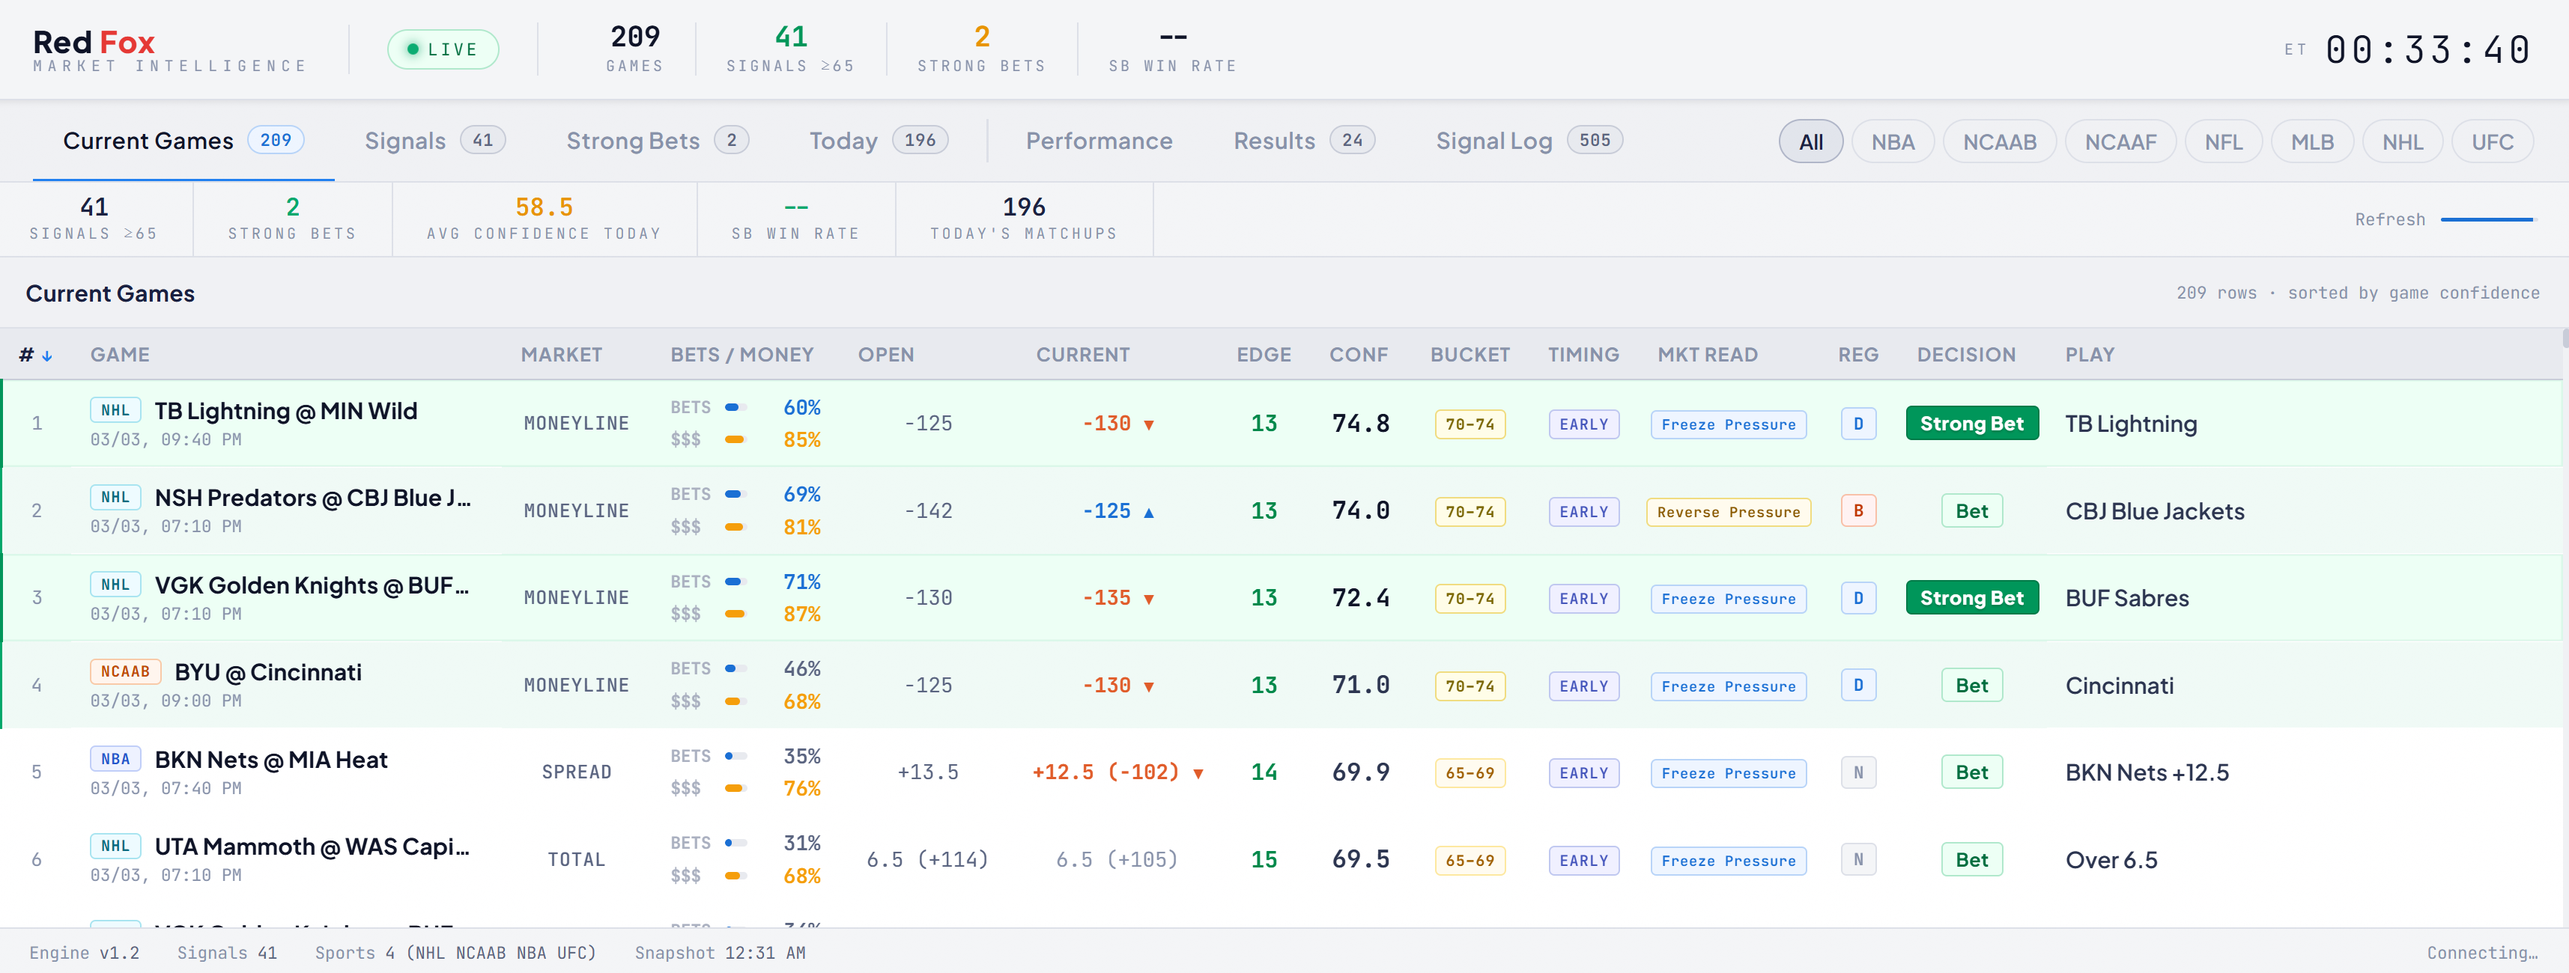
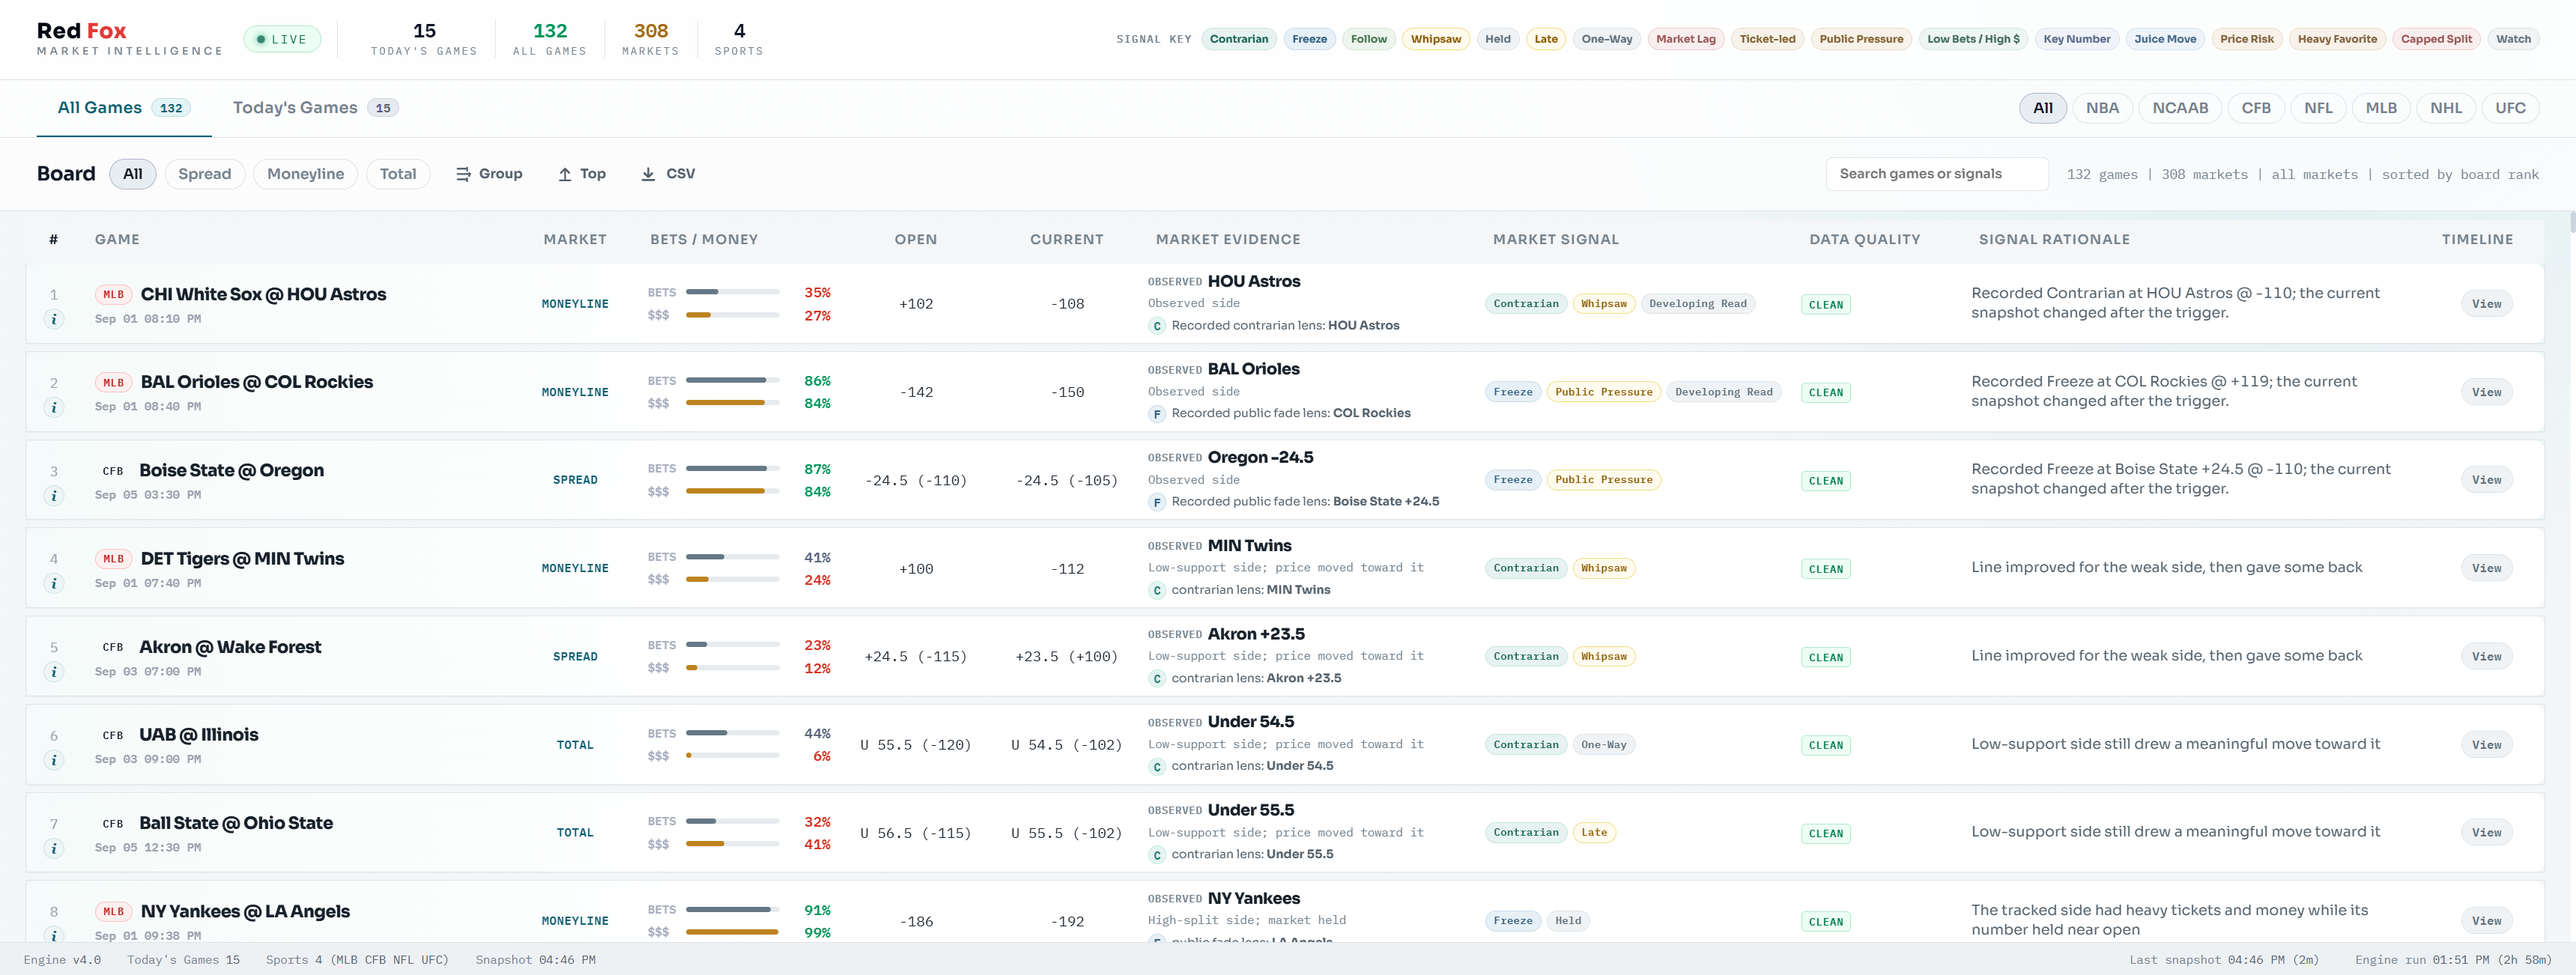
Update homepage with current board preview

diff --git a/site/index.html b/site/index.html
@@ -787,7 +787,7 @@ section { padding: 100px 40px; }
     <h2>See the Market Story Unfold</h2>
     <p class="preview-sub">Follow the real-time journey from open to current price, then look back through the exact path, split changes, and timestamped market evidence.</p>
     <div class="preview-wrap">
-      <img src="preview.png" alt="Red Fox Dashboard" class="preview-screenshot">
+      <img src="preview.png?v=20260901" alt="Red Fox live market board showing signals, market evidence, and timelines" class="preview-screenshot">
       <div class="preview-overlay">
         <div class="preview-lock">&#128274;</div>
         <div class="preview-overlay-text">The Full Market Journey, In One Board</div>
